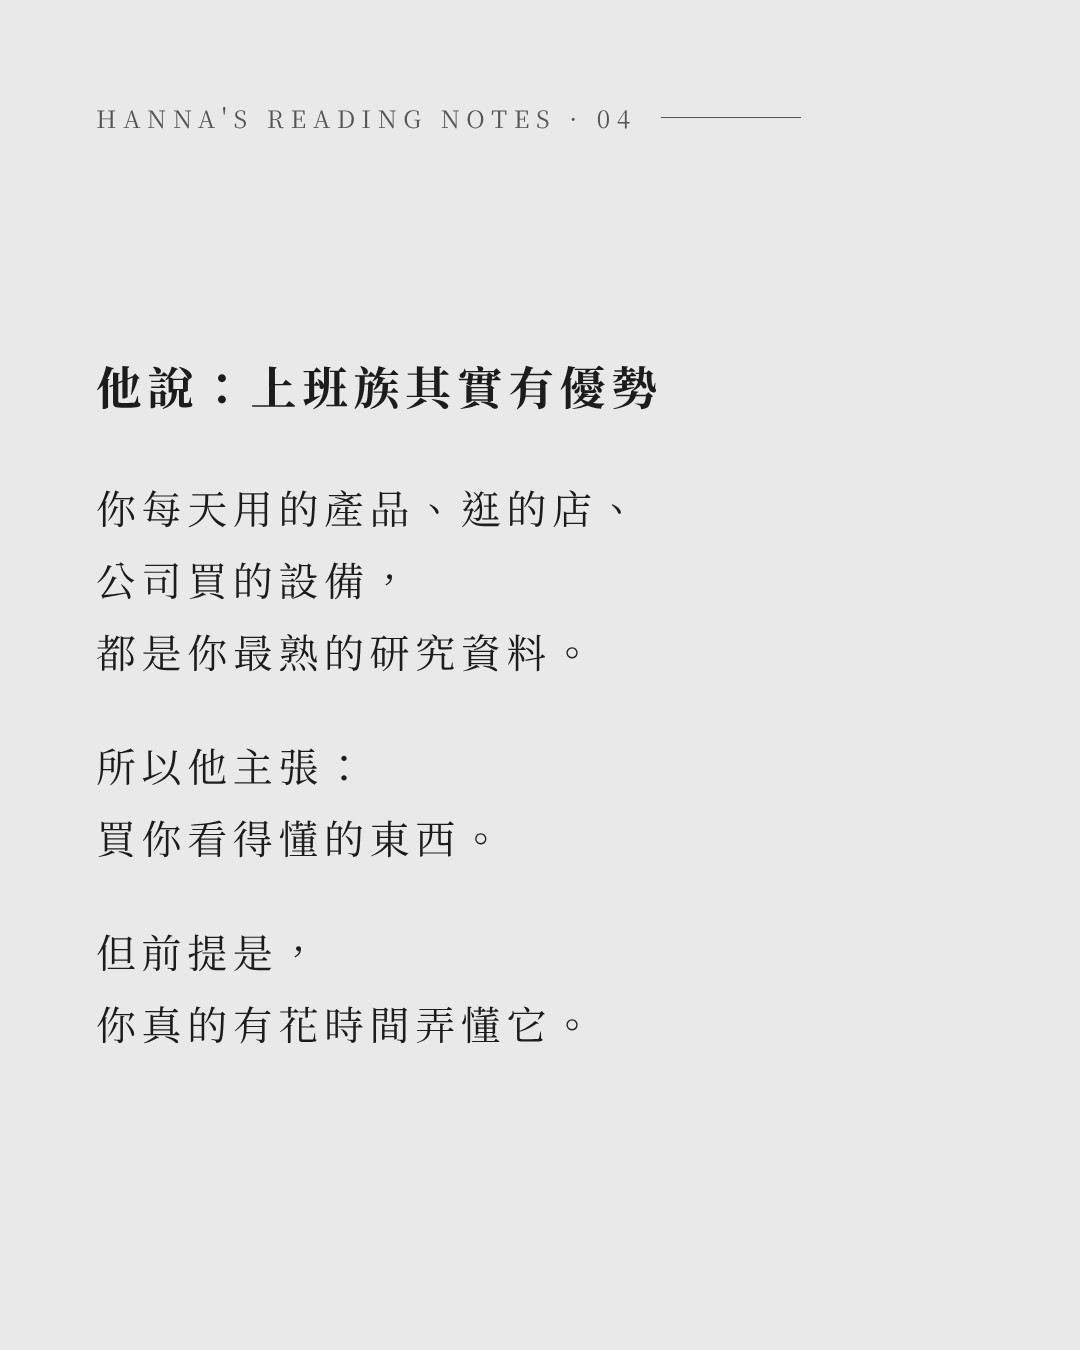
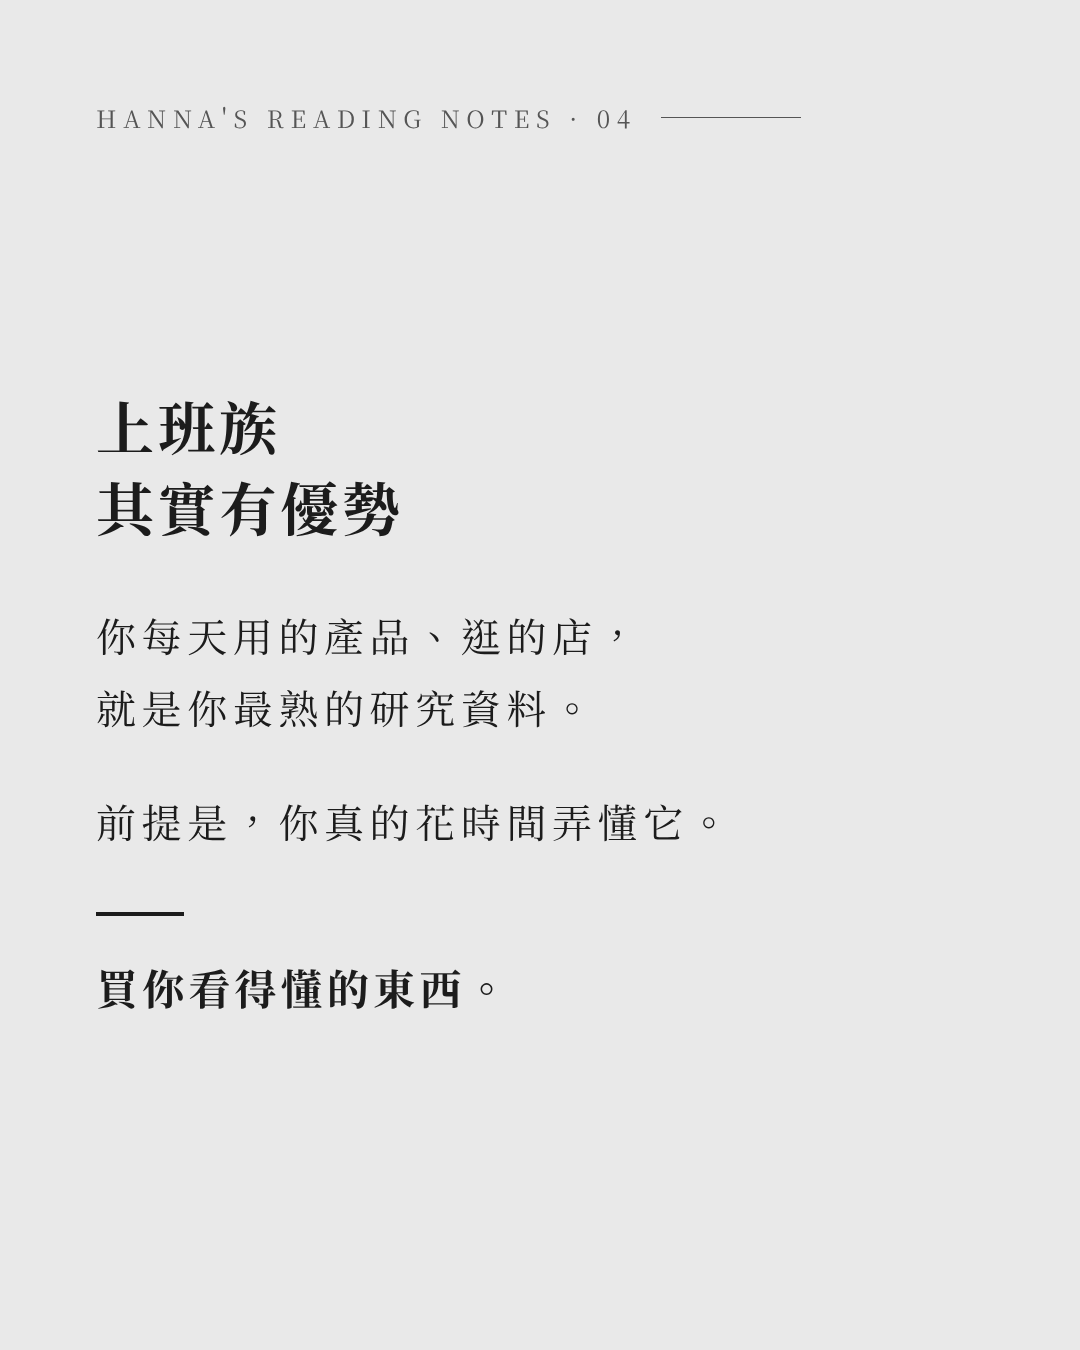
下單前3分鐘輪播：改成小改版（大標題＋每頁結論句），作為版型 A/B 測試
Claude-Session: https://claude.ai/code/session_01AFjNkU8XspDCm6xvkskaQj

Changed region(s): [[0.0917, 0.2489, 0.6417, 0.6533], [0.0917, 0.6844, 0.5194, 0.7778], [0.4278, 0.3422, 0.55, 0.4044]]

diff --git a/IP經營/輪播_下單前3分鐘/slides.html b/IP經營/輪播_下單前3分鐘/slides.html
@@ -52,6 +52,10 @@
   .box { display: inline-block; width: 0.78em; height: 0.78em; border: 2px solid var(--ink); margin-right: 0.45em; vertical-align: -0.08em; }
   .ex { display: block; font-size: 0.72em; color: var(--soft); margin-left: 1.35em; letter-spacing: 0.08em; line-height: 1.6; }
   .tip { margin-top: 0.9em; padding-top: 0.8em; border-top: 1px solid #b5b5b5; font-weight: 700; }
+  /* 小改版：標題更大更粗、每頁底部一句結論 */
+  .body h2 { font-size: 58px; font-weight: 700; letter-spacing: 0.06em; line-height: 1.4; margin-bottom: 0.9em; }
+  .take { margin-top: 1.3em; font-weight: 700; font-size: 1.05em; letter-spacing: 0.1em; }
+  .take::before { content: ""; display: block; width: 88px; height: 4px; background: var(--ink); margin-bottom: 0.8em; }
 </style>
 </head>
 <body>
@@ -63,58 +67,56 @@
 </section>
 
 <section class="slide"><div class="body">
-  <h2>你是不是也這樣？</h2>
-  <p>買手機：看開箱、比規格、<br>等雙 11，拖了 3 天才下單。</p>
+  <h2>你是不是<br>也這樣？</h2>
+  <p>買手機：看開箱、比規格、等雙 11。</p>
   <p>買股票：同事說「這支會漲」，<br>3 分鐘就買了 5 萬。</p>
-  <p>「大家都在買，應該不會錯吧？」</p>
-  <p>花 3 萬很謹慎，<br>花 5 萬卻很隨便。</p>
+  <p class="take">花 3 萬很謹慎，花 5 萬卻很隨便。</p>
 </div></section>
 
 <section class="slide"><div class="body">
   <h2>連傳奇基金經理人<br>都看不下去</h2>
-  <p>他說過一句很有名的話：</p>
   <p>「很多人研究買冰箱的時間，<br>比研究買股票還多。」</p>
-  <p>他管理的基金，13 年來<br>平均每年賺大約 29%。</p>
-  <p>他是 <span class="en">Peter Lynch</span>。</p>
+  <p>他是 <span class="en">Peter Lynch</span>，<br>13 年平均每年賺大約 29%。</p>
+  <p class="take">高手買股票，比你買冰箱還認真。</p>
 </div></section>
 
 <section class="slide"><div class="body">
-  <h2>他說：上班族其實有優勢</h2>
-  <p>你每天用的產品、逛的店、<br>公司買的設備，<br>都是你最熟的研究資料。</p>
-  <p>所以他主張：<br>買你看得懂的東西。</p>
-  <p>但前提是，<br>你真的有花時間弄懂它。</p>
+  <h2>上班族<br>其實有優勢</h2>
+  <p>你每天用的產品、逛的店，<br>就是你最熟的研究資料。</p>
+  <p>前提是，你真的花時間弄懂它。</p>
+  <p class="take">買你看得懂的東西。</p>
 </div></section>
 
 <section class="slide"><div class="body">
-  <h2>多數人虧錢，<br>不是因為不聰明</h2>
-  <p>是因為下單太快：<br>聽到消息就買，看到跌就賣。</p>
+  <h2>多數人虧錢，<br>是因為下單太快</h2>
+  <p>聽到消息就買，看到跌就賣。</p>
   <p>買之前沒想過：<br>為什麼買？跌了怎麼辦？</p>
-  <p>買手機都會先想<br>「我要拿來做什麼」，<br>買股票卻常常忘了。</p>
+  <p class="take">不是不聰明，是太急。</p>
 </div></section>
 
 <section class="slide"><div class="body check">
-  <h2>下單前 3 分鐘檢查表</h2>
+  <h2>下單前 3 分鐘<br>檢查表</h2>
   <p><span class="box"></span>能用一句話說出為什麼買？<span class="ex">例：產品我每天在用，生意越來越好</span></p>
   <p><span class="box"></span>這筆錢虧掉也不影響生活？<span class="ex">例：不動到房租、生活費、緊急預備金</span></p>
   <p><span class="box"></span>跌多少就賣，先寫下來了？<span class="ex">例：跌 10% 就出場</span></p>
-  <p><span class="box"></span>是自己查過，不只聽別人說？<span class="ex">例：至少知道公司在做什麼、有沒有賺錢</span></p>
+  <p><span class="box"></span>是自己查過，不只聽別人說？<span class="ex">例：知道公司在做什麼、有沒有賺錢</span></p>
   <p><span class="box"></span>明天跌 20%，我睡得著？<span class="ex">睡不著，就是買太多了</span></p>
-  <p class="tip">5 項都打勾，再按下單。</p>
+  <p class="take">5 項都打勾，再按下單。</p>
 </div></section>
 
 <section class="slide"><div class="body">
-  <h2>檢查表不是叫你不要買</h2>
-  <p>不是要你研究 3 個月才能買。</p>
-  <p>而是用 3 分鐘，<br>擋掉最衝動的那幾筆。</p>
-  <p>少買一筆衝動單，<br>可能就少虧一個月的薪水。</p>
+  <h2>不是叫你<br>不要買</h2>
+  <p>不用研究 3 個月才能買。</p>
+  <p>用 3 分鐘，<br>擋掉最衝動的那幾筆就好。</p>
+  <p class="take">少一筆衝動單，可能少虧一個月薪水。</p>
 </div></section>
 
 <section class="slide end"><div class="body">
-  <h2>買手機你會比價，<br>買股票也值得多花 3 分鐘</h2>
-  <p>留言告訴我：<br>你上一次買股票，花多久決定？<br>① 3 分鐘 ② 1 天 ③ 1 週以上</p>
+  <h2>買手機會比價，<br>買股票也值得多花 3 分鐘</h2>
+  <p>留言告訴我：你上一次買股票，<br>花多久決定？<br>① 3 分鐘 ② 1 天 ③ 1 週以上</p>
   <div class="save">
     <p class="t"><svg viewBox="0 0 20 24"><path d="M2 1h16v22l-8-6-8 6z" fill="none" stroke="currentColor" stroke-width="2.2" stroke-linejoin="round"/></svg>先把這篇存起來</p>
-    <p>下次想下單前，<br>打開來，花 3 分鐘對一次。</p>
+    <p>下次想下單前，打開來對一次。</p>
   </div>
   <p class="follow">追蹤 @_hannapang，每週一篇交易心理筆記</p>
   <p class="note">僅為個人觀點分享，不構成投資建議</p>

diff --git a/IP經營/輪播貼文_下單前3分鐘.md b/IP經營/輪播貼文_下單前3分鐘.md
@@ -1,6 +1,6 @@
 # 輪播貼文 09：買手機比價 3 天，買股票只看 3 分鐘？
 
-圖檔：`IP經營/輪播_下單前3分鐘/01.png`～`08.png`（8 張，依分析報告改版：故事＋小抄、每頁都有標題）
+圖檔：`IP經營/輪播_下單前3分鐘/01.png`～`08.png`（8 張，**小改版測試**：標題加大加粗、每頁底部粗線＋一句結論、每頁字數減少；24 小時後比較收藏率再決定要不要套用到版型）
 人物：Peter Lynch（封面不顯示姓名，第 3 張揭曉）
 封面人物照：使用者提供的第三張（微笑正面照），已去背（birefnet-portrait）
 
